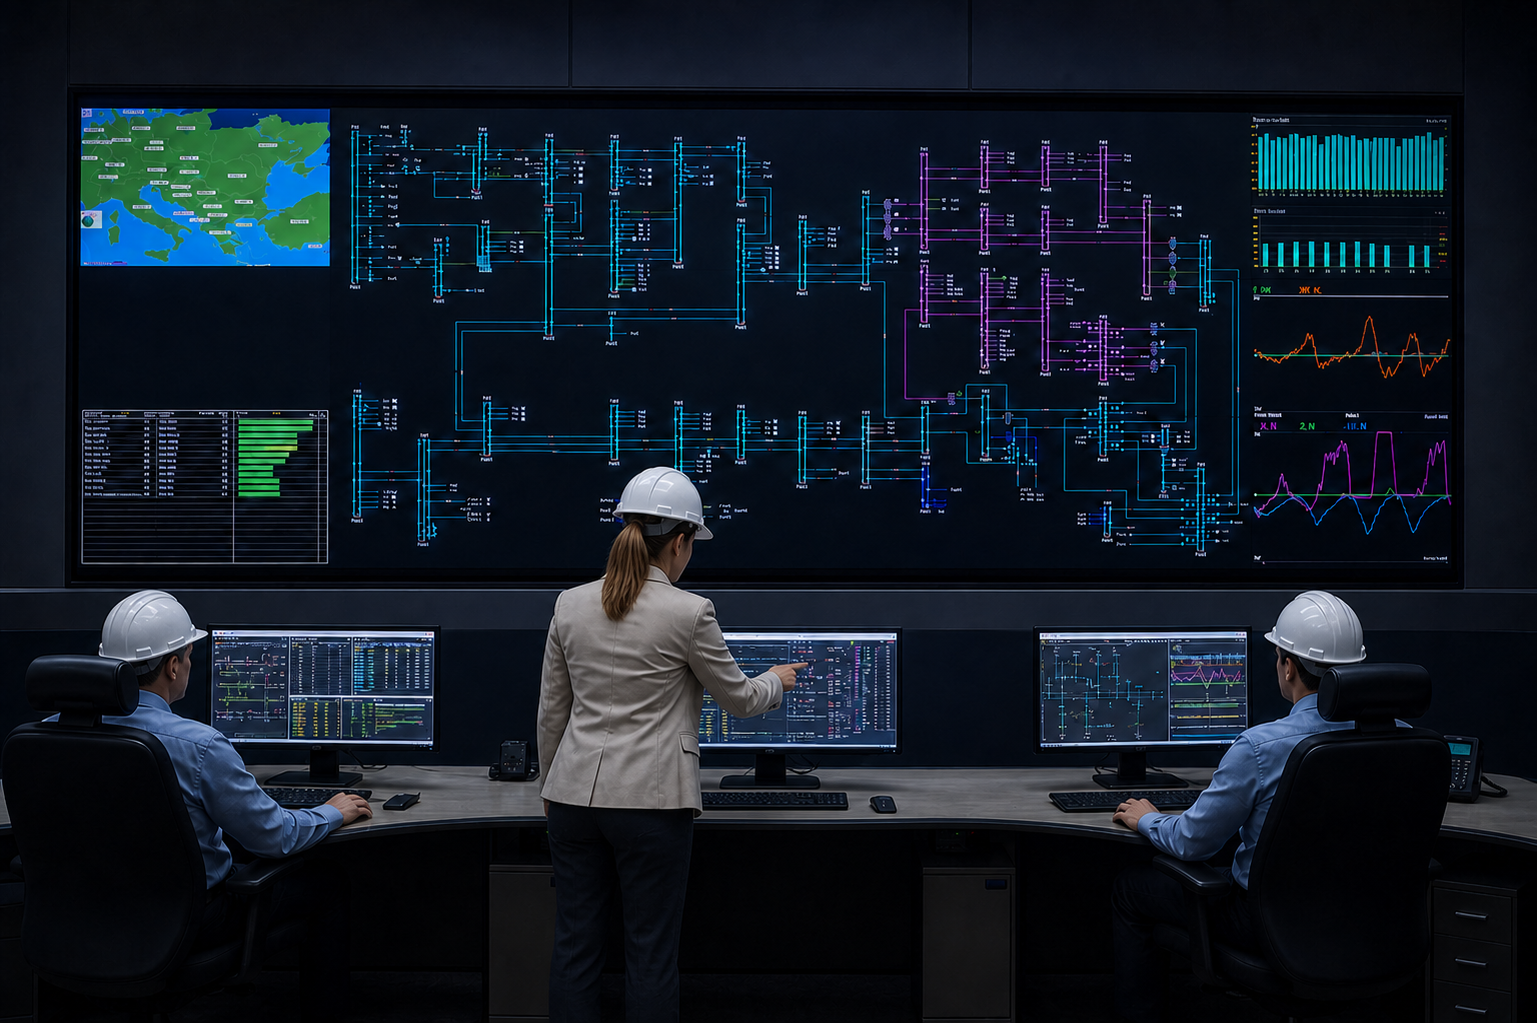
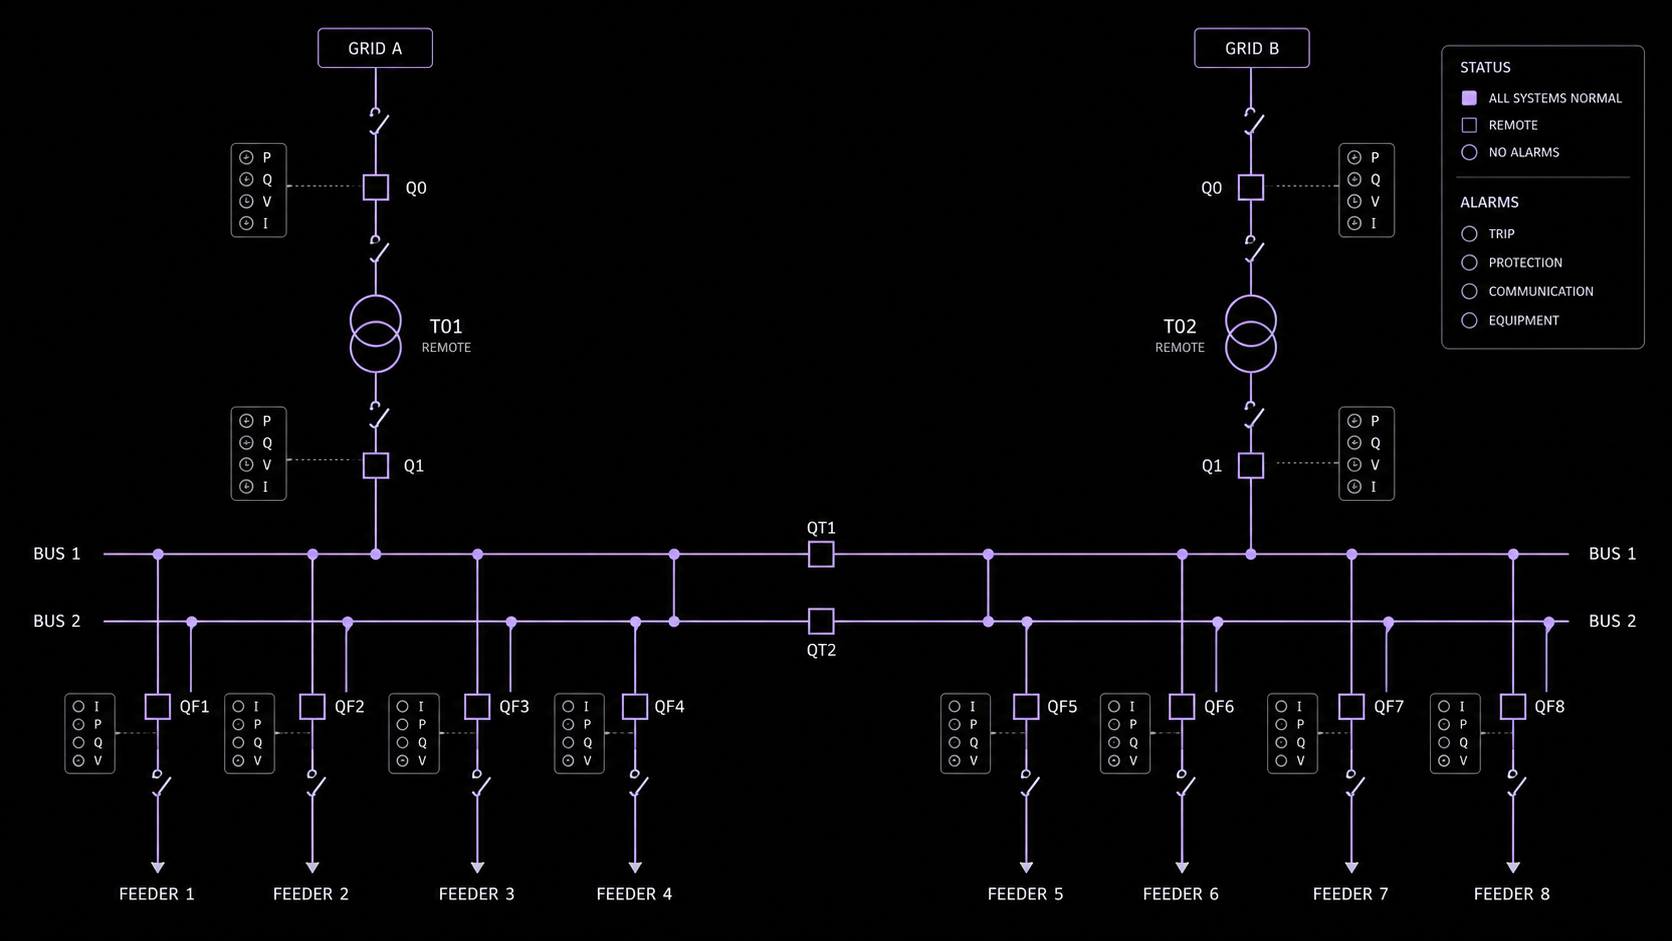
Sprint05_31082026

diff --git a/docs/ARCHITECTURE.md b/docs/ARCHITECTURE.md
@@ -1,6 +1,6 @@
 # Architecture
 
-Last updated: 30 August 2026
+Last updated: 31 August 2026
 
 ## Status
 
@@ -76,13 +76,14 @@ Project detail routes are generated from `src/data/projects.ts`. About destinati
 - Local `<style>` blocks own route-specific presentation.
 - `src/styles/global.css` owns shared controls, neon traces, navigation states and motion preferences.
 - The premium neon variant is centralized through `premium-neon-control` and `premium-neon-surface`; route components must not duplicate its gradient or timing.
-- The global header uses passive scroll listeners and `requestAnimationFrame`. Desktop keeps the horizontal section links; mobile exposes the same destinations through an accessible circular dropdown. A separate EN/DE/NL/FR selector currently updates presentation state only and does not yet switch routes or translated content.
+- The global header uses passive scroll listeners and `requestAnimationFrame`. Viewports up to 1366 pixels, coarse pointer devices and detected iPads use the accessible circular dropdown; wider desktop layouts retain horizontal section links. The tablet dropdown increases spacing and target size without changing the compact phone treatment. A separate EN/DE/NL/FR selector currently updates presentation state only and does not yet switch routes or translated content.
 - Intersection observers provide progressive section and touch feedback.
 - Project case studies use one reusable native `dialog` lightbox per rendered route for all expandable figures. It restores focus to the originating image control when closed.
 - Engineering diagrams use a dark semantic language: continuous grey paths for electrical or physical flows, dashed lilac paths for control and feedback, and labelled nodes for functional boundaries. Labels must occupy clear space and never overlap routes or equipment.
 - The renewable-control architecture uses separate desktop and mobile SVG assets. Its integrated topology includes a three-turbine wind farm, solar generation, local PPCs, hybrid coordination, operator supervision, an MV bus, transformers and the grid POI.
 - The MRI VGG16 figure uses the cache-versioned approved black, soft-white, grey and lilac raster asset with no green accent colors. The four MRI class examples share one square black image stage, consistent padding, radius and contain-fit treatment.
-- The MRI case study embeds two Sketchfab models through Viewer API 1.12.1. Each viewer has independent camera, tumour and annotation controls. Runtime material mapping gives both models a black background, a lilac brain and a red tumour; the CT model uses a lighter lilac for its exterior head layer.
+- The MRI case study embeds two Sketchfab models through Viewer API 1.12.1. Each viewer has independent camera and tumour controls; annotation controls appear only on the CT model that contains tags. Reset restores the captured initial position, target and field of view through `setCameraLookAt`. Runtime material mapping gives both models a black background, a lilac brain and a red tumour; the CT model uses a lighter lilac for its exterior head layer. Fixed-width controls remain right aligned and use the same press-confirmation animation on pointer and touch devices.
+- The grid-stability CRoF gallery pairs a simplified portfolio-safe SCADA single-line diagram with a black-background isometric substation. Both use high-resolution raster assets and the shared lightbox.
 - The master's report uses a separate native `dialog` viewer. Its browser controls are visually reduced, although any public document delivered to a browser remains technically retrievable.
 - `FloatingBackControl.astro` provides one shared Back interaction for every About and Project detail route.
 - The control remains visible at the initial position, appears during pointer, touch, keyboard or scroll activity and fades after two seconds of inactivity. Hover and keyboard focus pause the hide timer.
@@ -96,6 +97,7 @@ The contact form has no backend. It validates fields in the browser and opens a 
 
 - No secrets or API credentials belong in the repository. The public Sketchfab viewers require no repository credential.
 - Environment files are ignored.
+- Local build output, dependencies, generated Astro types and workspace temporary files are ignored.
 - External links use `target="_blank"` with `rel="noopener noreferrer"`.
 - Published company names, logos and project details require authorization.
 - Dependency audit and static build are required before sprint commits.

diff --git a/docs/CONTENT_BRIEF.md b/docs/CONTENT_BRIEF.md
@@ -1,6 +1,6 @@
 # Content brief
 
-Last updated: 30 August 2026
+Last updated: 31 August 2026
 
 ## Editorial objective
 
@@ -108,7 +108,7 @@ The first and most developed case study presents the master's research prototype
 
 Published evidence includes thesis authored figures, four representative MRI classes, the 5,320 image experimental distribution, a paired line-and-node comparison and a terminal style prediction report. The final VGG16 architecture uses the portfolio's black, soft-white, grey and lilac palette without green accents. Every principal research figure can be expanded through an accessible lightbox. The page explicitly frames the system as academic decision support research rather than a validated diagnostic device. Current global context is sourced from IARC GLOBOCAN 2022.
 
-The opening area also includes two interactive Sketchfab models. Both use a black background, a lilac brain and a red tumour. The CT model uses a softer lilac exterior layer. Each model provides independent controls for camera reset, tumour visibility and annotation visibility, with clear attribution to the original creator.
+The opening area also includes two interactive Sketchfab models. Both use a black background, a lilac brain and a red tumour. The CT model uses a softer lilac exterior layer. Each model provides independent camera reset and tumour controls, while tag visibility appears only on the annotated CT model. Reset restores the complete initial camera state, and every control uses fixed dimensions and immediate lilac press feedback on pointer and touch devices. Creator attribution remains visible.
 
 The complete master's report is available through an integrated viewer near the responsible use statement. The footer references The European Code of Conduct for Research Integrity published by ALLEA.
 
@@ -127,7 +127,7 @@ The published framing includes:
 - An original system architecture diagram connecting the power system, PMU devices, VAMS server, stability assessment model, visualisation and operator review.
 - An original Dutch grid context map and future planning indicators covering the 2045 horizon, projected demand, generation capacity and offshore wind scale. These are identified as planning scenarios rather than current operational characteristics.
 - A concise Control Room of the Future section describing the integration of automation, human supervision, grid data, network models and decision support.
-- Two original high resolution CRoF visuals showing collaborative operator supervision and a linear grid management facility. Both are expandable and contain no corporate identity.
+- Two original high resolution CRoF visuals: a simplified SCADA single-line interface and a clearly defined isometric grid management facility on black. Both are expandable, use the portfolio palette and contain no corporate identity or operational values.
 - A related research reference to the International Journal of Electrical Power and Energy Systems paper on data driven online assessment and spatial temporal visualisation.
 - No operational data, internal architecture, system criteria or proprietary application names.
 
@@ -149,7 +149,7 @@ The published framing includes:
 - A separate engineering architecture that distinguishes the electrical export path from field I/O, local PPC control, hybrid coordination, operator supervision and the grid POI. It represents the wind farm with three defined turbines and keeps every label clear of lines, controllers and transformer symbols.
 - Diego's contribution across deployment support, commissioning, integration, testing and technical troubleshooting.
 - Spanish photovoltaic growth context sourced from Red Eléctrica, including the position of solar PV as the leading technology by installed capacity in early 2025.
-- An explicit portfolio boundary excluding source code, operational setpoints, internal topology, procedures and confidential interfaces.
+- One merged portfolio boundary and technical foundation section covering the control stack while excluding source code, operational setpoints, internal topology, procedures and confidential interfaces.
 - No employer, client or project names in the visible case study.
 
 All portfolio-created engineering diagrams use a near-black canvas, soft white and grey physical structure, and lilac control semantics. Connections must terminate at a defined component or boundary and remain readable at the iPhone 12 Pro viewport.

diff --git a/docs/ROADMAP.md b/docs/ROADMAP.md
@@ -1,6 +1,6 @@
 # Roadmap
 
-Last updated: 30 August 2026
+Last updated: 31 August 2026
 
 ## Current product status
 
@@ -18,12 +18,12 @@ The portfolio is functional as a static Astro website on desktop and mobile. Its
 - Dedicated Experience page with six narrative company entries and normalized monochrome logos.
 - Four routed project case-study pages, with MRI tumour classification presented first.
 - Complete MRI tumour classification case study with research context, open data provenance, class examples, model evolution, experimental comparison and responsible use framing.
-- Two interactive MRI related anatomy models with independent reset, tumour and annotation controls, visible attribution and a shared black, lilac and red palette.
+- Two interactive MRI related anatomy models with complete camera-state reset, independent tumour controls, annotation control only where tags exist, visible attribution and a shared black, lilac and red palette. Fixed-width buttons remain right aligned and provide the same lilac press feedback on desktop and touch devices.
 - Consolidated responsible research and technical foundation content with a distinct report action and compact technology tags.
 - Confidentiality aware transmission grid stability case study covering controlled contingencies, collaborative application engineering, integration and validation without identifying the client.
 - Original expandable system architecture diagram and verified related research reference for the grid stability case study.
 - Reconstructed Dutch grid context map with sourced 2045 planning indicators and responsive presentation.
-- Control Room of the Future context with original high resolution control room and grid facility visuals, both available through the shared lightbox.
+- Control Room of the Future context with an original high resolution SCADA single-line interface and a black-background grid facility visual, both available through the shared lightbox.
 - Complete photovoltaic plant control case study covering a verified 380 MW public context, PPC, PLC, SCADA, HMI, industrial integration and commissioning experience without naming the employer, client or project.
 - Original expandable photovoltaic plant and industrial controls visuals, plus a conceptual control architecture that excludes proprietary topology, setpoints and interfaces.
 - Rebuilt desktop and mobile hybrid-generation diagrams with separate electrical export, field I/O, coordinated setpoints, feedback, operator supervision and grid POI semantics.
@@ -39,13 +39,13 @@ The portfolio is functional as a static Astro website on desktop and mobile. Its
 - Integrated viewer for the complete master's research report, presented without leaving the case study.
 - Research integrity reference to the ALLEA European Code of Conduct with a dedicated lilac wordmark.
 - Shared floating Back control across every About and Project detail route, visible initially and during scroll, pointer, touch or keyboard activity, with a two-second inactivity delay on desktop and mobile.
-- Responsive header with horizontal desktop navigation, a circular mobile dropdown and an EN/DE/NL/FR language-selector prototype ready for future translated routes.
+- Responsive header with horizontal navigation only on wide desktop layouts, a circular dropdown for phones and iPads, an enlarged tablet menu panel and an EN/DE/NL/FR language-selector prototype ready for future translated routes.
 - Responsive hybrid-control architecture with three defined wind turbines, a direct solar Field I/O connection, clear transformer labels and non-overlapping electrical and control paths.
 - Fluid section transitions without rigid divider lines and with a more compact vertical rhythm.
 - Responsive contact form that prepares an email in the visitor's email client.
 - External profile and credit links with safe new-tab attributes.
 - Reduced-motion support for the main animation system.
-- Removal of unused background artwork and dependency audit with zero known vulnerabilities.
+- Removal of unused background artwork, obsolete prototype assets, the empty content-collection placeholder and temporary audit files. All retained public assets are referenced directly, dynamically or by browser convention.
 
 ## In progress
 

diff --git a/docs/DESIGN_SYSTEM.md b/docs/DESIGN_SYSTEM.md
@@ -1,6 +1,6 @@
 # Design system
 
-Last updated: 30 August 2026
+Last updated: 31 August 2026
 
 ## Direction
 
@@ -43,7 +43,7 @@ Company marks in Experience are normalized to the same lilac to protect visual c
 - Sticky translucent header.
 - Thin animated neon line only at the top resting position.
 - Stronger blur while scrolling; subtle directional tilt.
-- Desktop navigation remains horizontal. On small screens, a Home-sized circular menu trigger opens the primary links in a right-aligned dropdown.
+- Desktop navigation remains horizontal above 1366 pixels. Phones, tablets, coarse-pointer devices and detected iPads use a Home-sized circular trigger with a right-aligned dropdown. Tablet panels use wider spacing and larger touch targets than the compact phone variant.
 - The compact language selector presents constructed rectangular US, German, Dutch and French flags with EN, DE, NL and FR codes only. Until translated routes exist, selection changes visual state only.
 
 ### Neon controls and panels
@@ -65,6 +65,7 @@ Company marks in Experience are normalized to the same lilac to protect visual c
 - MRI class cards preserve a monochrome scientific treatment, a uniform black image stage, equal square dimensions, consistent inner spacing and contain-fit anatomy.
 - The MRI preprocessing visual uses the same restrained one-pixel lilac scan on desktop and mobile. Its five-second cycle traverses the image proportionally so the motion remains consistent across aspect ratios.
 - Grid stability figures preserve their full composition and use high resolution PNG assets suitable for close inspection.
+- The CRoF single-line interface uses a symmetrical black HMI canvas with sparse generic labels, soft-white equipment and lilac network structure. Its paired isometric substation uses a pure black background, cool-grey equipment and restrained lilac perimeter light.
 - Technical diagrams use black backgrounds without white padding or heavy framing.
 - Continuous grey lines communicate electrical, physical or data paths; dashed lilac lines communicate control, setpoints and feedback. Legends must name these roles rather than relying on color alone.
 - Diagram connections terminate cleanly at equipment, buses, controllers, hubs or external boundaries. Labels must not intersect routes.
@@ -76,10 +77,11 @@ Company marks in Experience are normalized to the same lilac to protect visual c
 ### Interactive 3D models
 
 - Interactive anatomy appears inside proportional black frames with a 16:9 desktop ratio and a taller mobile ratio.
-- Viewer controls sit above each model and align to the left on every viewport.
+- Viewer controls sit above each model and align to the right on every viewport.
 - Both models use the same semantic palette: lilac for brain tissue, red for tumour tissue and black for the background.
 - The CT model uses a softer lilac for the exterior head layer so that it remains distinct from the brain without introducing another hue.
-- Camera reset, tumour visibility and annotation visibility are independent for each model.
+- Camera reset restores the initial position, target and field of view through a short transition. Tumour visibility remains independent for each model, and annotation visibility is offered only by the CT viewer.
+- Control buttons use a fixed width so `Hide` and `Show` label changes never shift adjacent controls. Pointer and touch activation produce a brief lilac background, dark text, subtle compression and glow.
 - Native creator attribution remains visible beneath every embed.
 - The page does not duplicate the loading message already supplied by Sketchfab.
 

diff --git a/docs/PRODUCT_BLUEPRINT.md b/docs/PRODUCT_BLUEPRINT.md
@@ -1,6 +1,6 @@
 # Product blueprint
 
-Last updated: 30 August 2026
+Last updated: 31 August 2026
 
 ## Vision
 
@@ -8,7 +8,7 @@ Create a focused engineering portfolio that presents Diego Carrillo as a multidi
 
 ## Current product state
 
-The website is functional and navigable on desktop and mobile. The design and interaction foundation is mature, and the MRI research, grid stability and photovoltaic plant control projects provide complete visual case study patterns. The MRI case study combines static research evidence with two independently controlled 3D models. Grid and renewable diagrams share a dark semantic system with explicit physical, electrical and control relationships, dedicated mobile assets and strict non overlap rules. The remaining sections still need deeper evidence and publication review.
+The website is functional and navigable on desktop, tablet and mobile. The design and interaction foundation is mature, and the MRI research, grid stability and photovoltaic plant control projects provide complete visual case study patterns. The MRI case study combines static research evidence with two independently controlled 3D models whose camera and visibility controls behave consistently across input modes. Grid and renewable diagrams share a dark semantic system with explicit physical, electrical and control relationships, dedicated mobile assets and strict non overlap rules. The grid gallery now connects a simplified SCADA single-line interface to a black-background physical substation view. The remaining sections still need deeper evidence and publication review.
 
 ## Audience
 
@@ -57,7 +57,7 @@ Homepage introduction
 - Black canvas with a restrained lilac accent system.
 - Strong typography and generous spacing instead of decorative backgrounds.
 - One clear action per row; no numbered controls that resemble a CV.
-- Sticky navigation remains available throughout the experience.
+- Sticky navigation remains available throughout the experience. Tablets and iPads use the same dropdown model as phones, with a larger panel suited to their available space; only wide desktop layouts retain horizontal navigation.
 - Desktop interactions use hover and press feedback.
 - Touch interactions use press and scroll-aware feedback.
 - The shared floating Back control responds to scroll, pointer, touch and keyboard activity and remains available for two seconds after activity ends.
@@ -70,7 +70,7 @@ Homepage introduction
 - Contact form validates locally and opens a prepared `mailto:` message.
 - External profiles open with `noopener noreferrer`.
 - Project and About detail pages are statically generated.
-- Static research figures use a browser native dialog lightbox. The two interactive anatomy models depend on the public Sketchfab Viewer API and retain creator attribution.
+- Static research figures use a browser native dialog lightbox. The two interactive anatomy models depend on the public Sketchfab Viewer API, retain creator attribution and restore their complete initial camera state through the API.
 - Complex diagrams use responsive SVG or high-resolution PNG assets and preserve their meaning at mobile widths.
 - The master's report is delivered from GitHub Pages through an integrated dialog viewer.
 - Public PDF controls may be visually reduced, but browser delivery cannot prevent retrieval of the source document.
